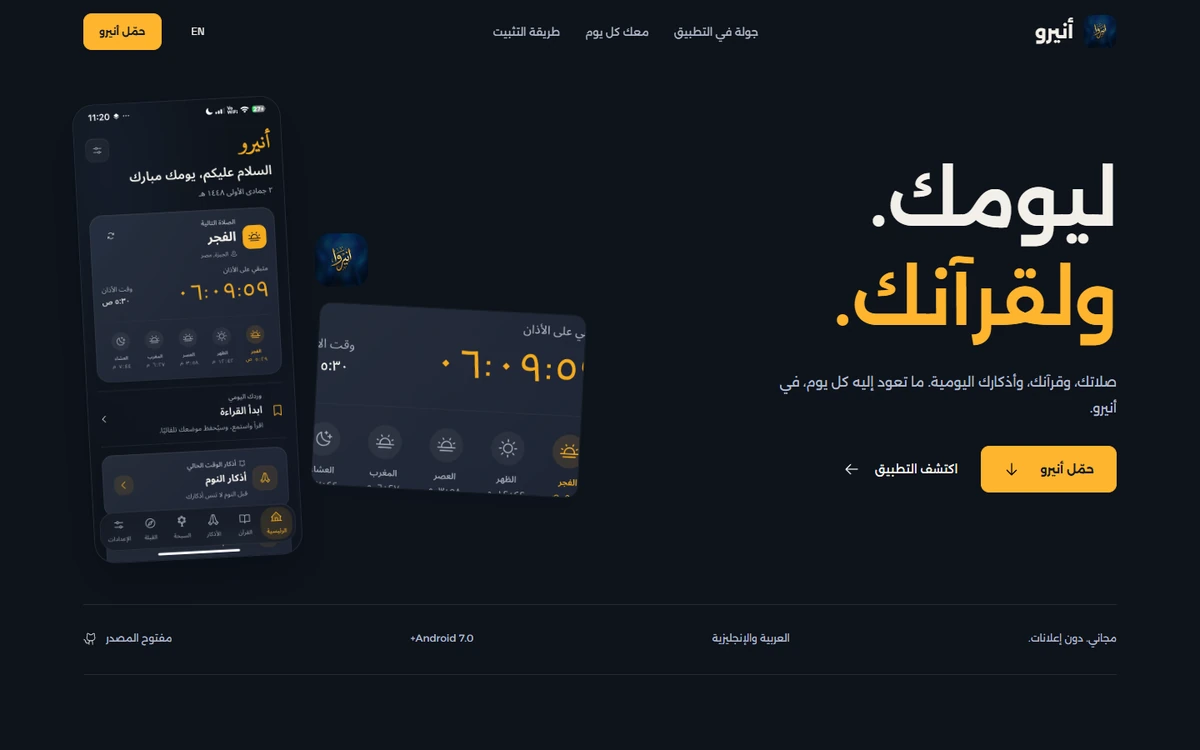
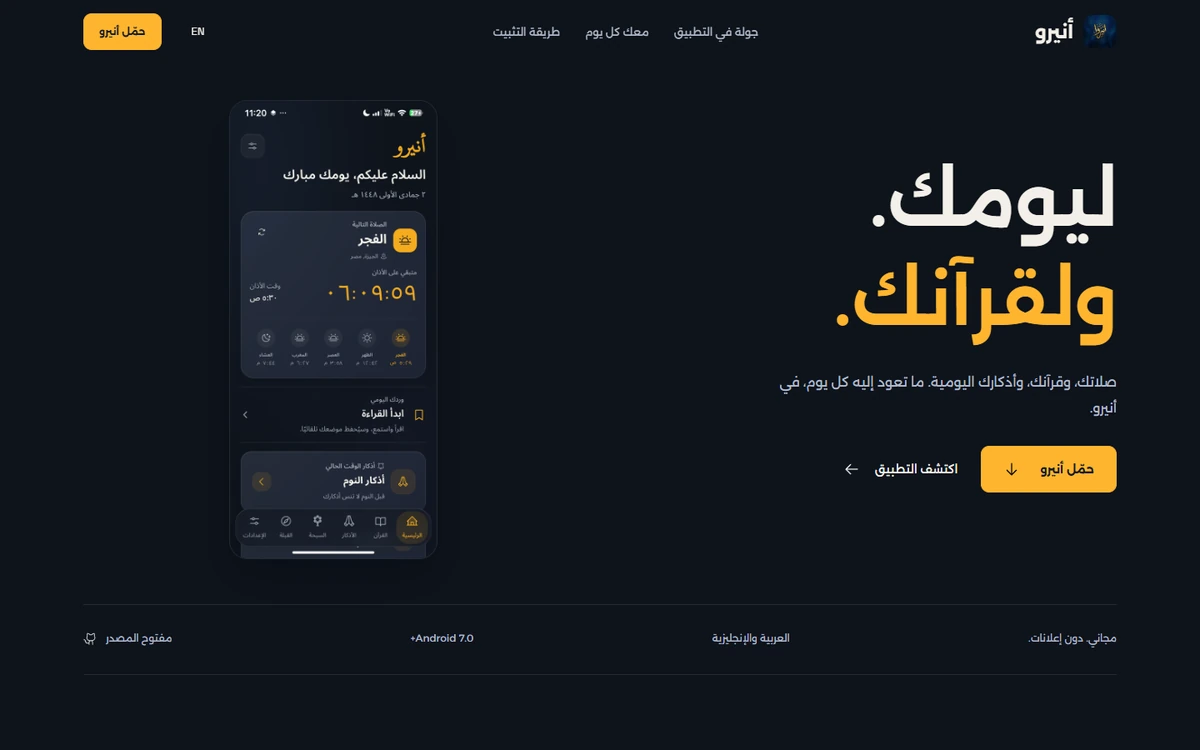
Replace broken detail crops with complete aligned app screenshots

Changed region(s): [[0.0617, 0.1227, 0.4933, 0.7667], [0.0617, 0.1533, 0.0925, 0.2147], [0.3083, 0.1227, 0.3392, 0.1533]]

diff --git a/styles.css b/styles.css
@@ -2,15 +2,40 @@
 @font-face{font-family:Space;src:url('/assets/fonts/space-grotesk.ttf') format('truetype');font-weight:300 700;font-display:swap}
 :root{color-scheme:dark;--canvas:#0e131b;--surface:#141c27;--ink:#f3f0e9;--muted:#b0bbcb;--amber:#ffb52e;--line:#ffffff1a;--max:1240px;--ease:cubic-bezier(.22,.8,.25,1)}
 *{box-sizing:border-box}html{scroll-behavior:smooth;scroll-padding-top:100px}body{margin:0;background:var(--canvas);color:var(--ink);font:400 16px/1.85 Alexandria,system-ui,sans-serif}html[lang=en] body{font-family:Space,system-ui,sans-serif}a{color:inherit;text-decoration:none}button{font:inherit;color:inherit;cursor:pointer}figure,p,h1,h2,h3{margin:0}img{display:block;max-width:100%;height:auto}a,button{-webkit-tap-highlight-color:transparent}a:focus-visible,button:focus-visible,summary:focus-visible,[tabindex]:focus-visible{outline:2px solid var(--amber);outline-offset:6px}::selection{background:var(--amber);color:var(--canvas)}.container{width:min(var(--max),calc(100% - 88px));margin-inline:auto}.accent{color:var(--amber)}.icon{width:22px;height:22px;flex-shrink:0;filter:brightness(0) invert(95%)}.skip-link{position:fixed;top:8px;inset-inline-start:12px;z-index:100;background:var(--amber);color:var(--canvas);padding:10px 20px;translate:0 -160%}.skip-link:focus{translate:none}.site-header{position:sticky;top:0;z-index:30;background:#0e131bed;backdrop-filter:blur(16px)}.nav-bar{height:76px;display:flex;justify-content:space-between;align-items:center;gap:36px}.brand{display:flex;gap:12px;align-items:center;font-size:23px;font-weight:650;white-space:nowrap}.brand img{width:40px;height:40px;border-radius:11px}.navigation{display:flex;gap:30px;color:var(--muted);font-size:13px;align-items:center}.navigation a{padding-block:13px;white-space:nowrap;transition:color .2s}.navigation a:hover{color:var(--ink)}.nav-actions{display:flex;gap:22px;align-items:center}.language-button{background:none;border:0;min-height:44px;min-width:44px;font-family:Space,Alexandria,sans-serif;font-size:13px}.button{display:inline-flex;align-items:center;justify-content:center;gap:24px;min-height:56px;padding:14px 26px;background:var(--amber);border:1px solid var(--amber);border-radius:10px;color:#121922;font-size:14px;font-weight:650;white-space:nowrap;transition:background .2s,translate .2s}.button .icon{filter:none;width:20px;height:20px}.button:hover{background:#ffc250;translate:0 -2px}.button:active{translate:0 1px}.button-small{font-size:12px;min-height:44px;padding:10px 18px}.menu-button{display:none;min-width:44px;min-height:44px;border:0;background:transparent}.mobile-nav{display:none}.link-arrow{display:inline-flex;gap:18px;align-items:center;font-size:14px;font-weight:450;min-height:44px}.link-arrow .icon{width:20px;transition:translate .2s}.link-arrow:hover .icon{translate:-4px 0}html[dir=ltr] .link-arrow .icon{rotate:180deg}html[dir=ltr] .link-arrow:hover .icon{translate:4px 0}
-.hero{display:grid;grid-template-columns:1fr 1.05fr;align-items:center;gap:70px;padding-block:44px 54px;min-height:648px}.hero-copy{padding-bottom:20px}.hero h1{font-size:clamp(60px,6.8vw,88px);font-weight:600;line-height:1.36;letter-spacing:-2.5px}.hero h1 span{display:block}html[lang=en] .hero h1{font-size:clamp(60px,6.5vw,84px);line-height:1.08;letter-spacing:-4px}.hero-copy>p{max-width:420px;color:var(--muted);font-size:16px;line-height:1.95;margin-top:24px}.hero-actions{display:flex;align-items:center;flex-wrap:wrap;gap:28px;margin-top:30px}.hero-product{display:grid;grid-template-columns:250px 1fr;gap:28px;align-items:center;direction:ltr;position:relative}.hero-screen{border-radius:25px;overflow:hidden;box-shadow:0 24px 50px #050c1573;border:1px solid #b4c4df22;rotate:-3deg}.hero-screen>img{width:250px;aspect-ratio:1080/2392;object-fit:contain}.hero-side{display:flex;flex-direction:column;align-items:start;gap:26px;min-width:0;padding-top:80px}.hero-mark{width:64px;height:64px;border-radius:18px}.hero-side>p{color:var(--muted);font-size:15px;line-height:1.7;text-align:start;max-width:170px;direction:rtl}html[lang=en] .hero-side>p{direction:ltr}.prayer-detail{width:100%;border-radius:15px;overflow:hidden;rotate:3deg;border:1px solid #ffffff0d;box-shadow:0 15px 30px #07101a50}.prayer-detail>img{width:100%;aspect-ratio:760/520;object-fit:contain}.hero-product .hero-screen{transition:rotate .7s var(--ease),translate .7s var(--ease)}@media(hover:hover){.hero-product:hover .hero-screen{rotate:-1deg;translate:0 -5px}}.essentials{display:flex;justify-content:space-between;gap:30px;align-items:center;padding-block:25px 28px;border-block:1px solid var(--line);color:var(--muted);font-size:12px}.essentials a{display:flex;gap:10px;align-items:center;min-height:30px}.essentials .icon{width:17px;height:17px;opacity:.8}
-.section{padding-block:100px;scroll-margin-top:76px}.section-heading{max-width:640px;margin-bottom:48px}.section-heading h2{font-size:clamp(34px,4.2vw,54px);font-weight:550;line-height:1.5;letter-spacing:-1.5px}.section-heading p{font-size:15px;line-height:1.9;color:var(--muted);margin-top:15px;max-width:580px}html[lang=en] .section-heading h2{line-height:1.12;letter-spacing:-2px}.quran-section{padding-bottom:78px}.gallery-controls{display:flex;justify-content:space-between;align-items:center;color:var(--muted);font-size:12px;margin-bottom:28px}.gallery-controls>div{display:flex;gap:8px}.gallery-arrow{display:grid;place-items:center;width:44px;height:44px;background:none;border:1px solid var(--line);border-radius:50%;transition:background .2s,opacity .2s}.gallery-arrow:hover:not(:disabled){background:#ffffff09}.gallery-arrow:disabled{opacity:.3;cursor:default}html[dir=ltr] .gallery-arrow .icon{rotate:180deg}.screen-gallery{display:flex;gap:30px;overflow-x:auto;overscroll-behavior-x:contain;scroll-snap-type:x mandatory;scrollbar-width:thin;scrollbar-color:#5c6876 transparent;padding:8px 0 26px}.gallery-item{flex:1 0 240px;min-width:0;scroll-snap-align:start}.gallery-item>img{width:100%;aspect-ratio:1080/2392;object-fit:contain;border-radius:22px;border:1px solid #b4c4df1b;box-shadow:0 18px 38px #07101a55}.gallery-item.listening{padding-top:58px}.gallery-item.reciters{padding-top:28px}.gallery-item figcaption{margin-top:25px;padding-inline:3px}.gallery-item h3{font-size:20px;line-height:1.5;font-weight:550}.gallery-item p{font-size:12px;color:var(--muted);margin-top:8px;line-height:1.85;max-width:250px}.gallery-note{margin-top:28px;color:#9daabc;font-size:12px}.daily-section{padding-top:62px}.daily-layout{display:grid;grid-template-columns:1.1fr 1fr;gap:66px}.azkar-feature{display:flex;flex-direction:column;background:var(--surface);border-radius:20px;min-height:640px;overflow:hidden}.azkar-copy{padding:38px 38px 20px;max-width:430px}.azkar-copy>.icon{width:25px;height:25px;opacity:.9}.azkar-copy h3{font-size:29px;font-weight:500;line-height:1.55;margin-top:23px;letter-spacing:-.5px}.azkar-copy p{font-size:14px;color:var(--muted);margin-top:15px;line-height:1.9}.azkar-feature figure{margin-top:10px;align-self:flex-end;width:270px;max-width:70%;height:360px;overflow:hidden;margin-inline-end:36px;border-radius:20px 20px 0 0;rotate:-3deg;transform-origin:bottom center;border:1px solid #ffffff1a;border-bottom:0}.azkar-feature figure img{width:100%;aspect-ratio:1080/2392;object-fit:contain}.daily-utilities{display:grid;grid-template-rows:1fr 1fr;gap:20px}.utility-feature{display:grid;grid-template-columns:1fr 190px;align-items:center;gap:22px;padding-block:22px;overflow:hidden}.utility-feature+.utility-feature{border-top:1px solid var(--line)}.utility-copy h3{font-size:25px;font-weight:500;line-height:1.5;margin-top:24px;letter-spacing:-.5px}.utility-copy p{font-size:14px;color:var(--muted);margin-top:15px;line-height:1.9;max-width:270px}.utility-copy>.icon{width:24px;height:24px;opacity:.9}.utility-image{width:190px;aspect-ratio:640/700;object-fit:contain;border-radius:14px}.qibla-feature .utility-image{rotate:2deg}
+.hero{display:grid;grid-template-columns:1fr 1.05fr;align-items:center;gap:70px;padding-block:44px 54px;min-height:648px}.hero-copy{padding-bottom:20px}.hero h1{font-size:clamp(60px,6.8vw,88px);font-weight:600;line-height:1.36;letter-spacing:-2.5px}.hero h1 span{display:block}html[lang=en] .hero h1{font-size:clamp(60px,6.5vw,84px);line-height:1.08;letter-spacing:-4px}.hero-copy>p{max-width:420px;color:var(--muted);font-size:16px;line-height:1.95;margin-top:24px}.hero-actions{display:flex;align-items:center;flex-wrap:wrap;gap:28px;margin-top:30px}.essentials{display:flex;justify-content:space-between;gap:30px;align-items:center;padding-block:25px 28px;border-block:1px solid var(--line);color:var(--muted);font-size:12px}.essentials a{display:flex;gap:10px;align-items:center;min-height:30px}.essentials .icon{width:17px;height:17px;opacity:.8}
+.section{padding-block:100px;scroll-margin-top:76px}.section-heading{max-width:640px;margin-bottom:48px}.section-heading h2{font-size:clamp(34px,4.2vw,54px);font-weight:550;line-height:1.5;letter-spacing:-1.5px}.section-heading p{font-size:15px;line-height:1.9;color:var(--muted);margin-top:15px;max-width:580px}html[lang=en] .section-heading h2{line-height:1.12;letter-spacing:-2px}.quran-section{padding-bottom:78px}.gallery-controls{display:flex;justify-content:space-between;align-items:center;color:var(--muted);font-size:12px;margin-bottom:28px}.gallery-controls>div{display:flex;gap:8px}.gallery-arrow{display:grid;place-items:center;width:44px;height:44px;background:none;border:1px solid var(--line);border-radius:50%;transition:background .2s,opacity .2s}.gallery-arrow:hover:not(:disabled){background:#ffffff09}.gallery-arrow:disabled{opacity:.3;cursor:default}html[dir=ltr] .gallery-arrow .icon{rotate:180deg}.screen-gallery{display:flex;gap:30px;overflow-x:auto;overscroll-behavior-x:contain;scroll-snap-type:x mandatory;scrollbar-width:thin;scrollbar-color:#5c6876 transparent;padding:8px 0 26px}.gallery-item{flex:1 0 240px;min-width:0;scroll-snap-align:start}.gallery-item>img{width:100%;aspect-ratio:1080/2392;object-fit:contain;border-radius:22px;border:1px solid #b4c4df1b;box-shadow:0 18px 38px #07101a55}.gallery-item.listening{padding-top:58px}.gallery-item.reciters{padding-top:28px}.gallery-item figcaption{margin-top:25px;padding-inline:3px}.gallery-item h3{font-size:20px;line-height:1.5;font-weight:550}.gallery-item p{font-size:12px;color:var(--muted);margin-top:8px;line-height:1.85;max-width:250px}.gallery-note{margin-top:28px;color:#9daabc;font-size:12px}.daily-section{padding-top:62px}
 .install-section{background:var(--surface);margin-top:24px;padding-block:72px 58px}.download-layout{display:grid;grid-template-columns:1.2fr .8fr;gap:90px;align-items:center}.download-layout h2{font-size:clamp(36px,4.6vw,58px);font-weight:550;line-height:1.5;letter-spacing:-1.5px;max-width:580px}.download-layout>div>p{color:var(--muted);font-size:15px;line-height:1.85;margin-top:20px;max-width:440px}html[lang=en] .download-layout h2{line-height:1.15;letter-spacing:-2px}.download-actions{max-width:330px;width:100%;justify-self:end}.download-mark{width:58px;height:58px;border-radius:15px;margin-bottom:22px}.release-meta{display:flex;align-items:center;gap:24px;font:14px Space,system-ui,sans-serif;color:var(--muted);margin-bottom:20px}.release-meta [data-version]{color:var(--ink)}.download-actions .button{width:100%;justify-content:space-between}.download-actions #release-status{font-size:12px;color:var(--muted);line-height:1.85;min-height:24px;margin-top:14px}.install-steps{list-style:none;padding:0;margin:60px 0 0;display:grid;grid-template-columns:repeat(3,1fr);gap:48px;border-top:1px solid #ffffff20;padding-top:38px}.install-steps li{max-width:340px}.install-steps .icon{width:23px;height:23px;opacity:.85}.install-steps h3{font-size:19px;font-weight:500;margin-top:19px;line-height:1.55}.install-steps p{font-size:13px;color:var(--muted);line-height:1.95;margin-top:11px}.install-help{display:grid;grid-template-columns:1fr 1fr auto;gap:34px;align-items:start;margin-top:48px;font-size:13px}.install-help details{border-top:1px solid var(--line);padding-top:20px}.install-help summary{cursor:pointer;font-weight:500;min-height:44px}.install-help details p{color:var(--muted);font-size:12px;line-height:1.95;margin-top:10px}.text-link{color:var(--amber);font-size:13px;min-height:44px;display:inline-flex;align-items:center;border-bottom:1px solid #ffb52e55}.support{display:grid;grid-template-columns:1fr .6fr;gap:60px;align-items:center;padding-block:100px 90px}.support h2{font-size:clamp(32px,3.3vw,42px);line-height:1.5;max-width:570px;font-weight:500;letter-spacing:-1px}.support p{font-size:14px;line-height:1.9;color:var(--muted);max-width:490px;margin-top:18px}.support .link-arrow{color:var(--amber);margin-top:24px}.support-mark{width:140px;height:140px;border-radius:36px;justify-self:center;rotate:5deg}.site-footer{padding-bottom:30px}.footer-wordmark{font-size:clamp(70px,12vw,144px);line-height:1.4;font-weight:550;letter-spacing:-4px;color:#f3f0e9}.footer-row{border-top:1px solid var(--line);padding-top:26px;display:flex;align-items:center;justify-content:space-between;gap:26px;color:var(--muted);font-size:12px}.footer-links{display:flex;gap:26px;flex-wrap:wrap}.footer-links a{min-height:44px;display:inline-flex;align-items:center}.footer-links a:hover{color:var(--ink)}
-.policy{max-width:800px;padding-block:70px}.policy h1{font-size:38px;margin-bottom:18px}.policy h2{font-size:21px;font-weight:550;margin-top:36px}.policy p{color:var(--muted);line-height:1.95;margin-top:14px}.policy a{color:var(--amber)}.policy section{border-top:1px solid var(--line);padding-top:42px;margin-top:50px}.policy section h1{font-family:Space,system-ui,sans-serif}.policy section p{font-family:Space,system-ui,sans-serif}.reveal{opacity:1}.motion-ready .reveal{opacity:0;transform:translateY(24px);transition:opacity .65s var(--ease),transform .65s var(--ease)}.motion-ready .reveal.is-visible{opacity:1;transform:none}.motion-ready .hero-copy{animation:hero-copy .65s var(--ease) both}.motion-ready .hero-product{animation:hero-product .85s .08s var(--ease) both}@keyframes hero-copy{from{opacity:0;transform:translateY(20px)}to{opacity:1;transform:none}}@keyframes hero-product{from{opacity:0;transform:translateY(32px) rotate(1deg)}to{opacity:1;transform:none}}[hidden]{display:none!important}
-@media(min-width:768px) and (max-height:780px){.hero{min-height:564px;padding-block:25px 40px}.hero-product{grid-template-columns:218px 1fr}.hero-screen>img{width:218px}.hero h1{font-size:70px}html[lang=en] .hero h1{font-size:65px}.hero-side{padding-top:60px;gap:20px}}
-@media(max-width:1150px){.hero{gap:38px;grid-template-columns:1fr 1fr}.hero h1{font-size:68px}html[lang=en] .hero h1{font-size:66px}.hero-product{grid-template-columns:222px 1fr;gap:23px}.hero-screen>img{width:222px}.hero-side{gap:20px}.hero-copy>p{font-size:15px}.daily-layout{gap:40px}.utility-feature{grid-template-columns:1fr 150px;gap:18px}.utility-image{width:150px}.utility-copy h3{font-size:23px}.gallery-item{flex-basis:230px}.install-help{grid-template-columns:1fr 1fr}.install-help>.text-link{justify-self:start}}
-@media(max-width:950px){.container{width:calc(100% - 48px)}.nav-bar{gap:20px}.navigation{gap:18px;font-size:12px}.nav-actions{gap:12px}.hero{gap:28px;min-height:570px}.hero h1{font-size:61px}html[lang=en] .hero h1{font-size:55px}.hero-product{grid-template-columns:190px 1fr;gap:20px}.hero-screen>img{width:190px}.hero-side{padding-top:55px}.hero-mark{width:48px;height:48px;border-radius:13px}.hero-side>p{font-size:12px}.hero-actions{gap:18px}.button{font-size:13px;padding-inline:20px}.link-arrow{font-size:12px;gap:12px}.section{padding-block:80px}.daily-layout{grid-template-columns:1fr;gap:34px}.azkar-feature{display:grid;grid-template-columns:1.1fr .9fr;min-height:420px}.azkar-copy{padding:38px 32px}.azkar-copy h3{font-size:30px}.azkar-feature figure{width:235px;max-width:none;height:390px;align-self:end;margin-inline-end:26px;translate:0 20px}.daily-utilities{grid-template-columns:1fr 1fr;grid-template-rows:auto;gap:36px}.utility-feature{grid-template-columns:1fr 135px;gap:16px;padding-block:20px}.utility-feature+.utility-feature{border-top:0}.utility-image{position:static;width:135px;opacity:1}.utility-copy p{font-size:13px;max-width:205px}.download-layout{gap:42px}.install-steps{gap:30px}.support{padding-block:80px}}
-@media(max-width:767px){.container{width:calc(100% - 40px)}.nav-bar{height:68px;gap:12px}.brand{font-size:20px;gap:10px}.brand img{width:35px;height:35px;border-radius:10px}.navigation{display:none}.nav-actions .button{display:none}.nav-actions{gap:8px}.menu-button{display:grid;place-items:center}.mobile-nav.is-open{display:grid;gap:0;padding:8px 20px 20px;border-bottom:1px solid var(--line)}.mobile-nav a{padding:10px 4px;min-height:44px;font-size:14px}.hero{display:block;min-height:0;padding-block:34px 28px}.hero-copy{padding:0;max-width:470px}.hero h1{font-size:56px;line-height:1.32;letter-spacing:-1.5px}html[lang=en] .hero h1{font-size:58px;line-height:1.06;letter-spacing:-3px}.hero-copy>p{font-size:14px;max-width:330px;line-height:1.9;margin-top:18px}.hero-actions{margin-top:22px;gap:26px}.hero-actions .button{min-height:50px;font-size:13px;padding:12px 20px;gap:20px}.hero-actions .link-arrow{font-size:12px;gap:12px}.hero-product{max-width:460px;margin:34px auto 0;grid-template-columns:196px 1fr;gap:24px}.hero-screen>img{width:196px}.hero-side{padding-top:70px;gap:20px}.hero-mark{width:51px;height:51px;border-radius:14px}.hero-side>p{font-size:12px;max-width:140px}.prayer-detail{rotate:2deg;border-radius:12px}.essentials{flex-wrap:wrap;justify-content:space-between;gap:10px 18px;padding-block:18px;font-size:11px}.essentials>*{width:calc(50% - 18px);min-height:26px}.essentials a{min-height:26px}.section{padding-block:62px}.section-heading{margin-bottom:30px}.section-heading h2{font-size:34px;line-height:1.5;letter-spacing:-.7px}html[lang=en] .section-heading h2{font-size:36px;line-height:1.15;letter-spacing:-1.2px}.section-heading p{font-size:14px;line-height:1.9;max-width:380px;margin-top:12px}.quran-section{padding-bottom:44px}.gallery-controls{margin-bottom:17px;font-size:11px}.screen-gallery{gap:24px;padding:8px 0 20px}.gallery-item{flex:0 0 232px}.gallery-item>img{border-radius:20px}.gallery-item.listening{padding-top:35px}.gallery-item.reciters{padding-top:22px}.gallery-item figcaption{margin-top:20px}.gallery-item h3{font-size:19px}.gallery-item p{font-size:12px}.gallery-note{font-size:11px;line-height:1.85;margin-top:19px;max-width:290px}.daily-layout{grid-template-columns:1fr;gap:25px}.azkar-feature{min-height:0;display:grid;grid-template-columns:1fr 42%;gap:8px;min-height:400px}.azkar-copy{padding:29px 26px;z-index:1}.azkar-copy h3{font-size:24px;line-height:1.6;margin-top:19px}.azkar-copy p{font-size:12px;line-height:1.9}.azkar-feature figure{width:100%;max-width:none;align-self:end;height:340px;margin:0;margin-inline-end:14px;translate:-10px 20px;rotate:-4deg}.daily-utilities{grid-template-columns:1fr;grid-template-rows:auto;gap:12px}.utility-feature{grid-template-columns:1fr 142px;gap:18px;padding-block:26px}.utility-copy{max-width:none}.utility-copy h3{font-size:23px;margin-top:20px}.utility-copy p{max-width:240px;font-size:13px}.utility-image{position:static;opacity:1;width:142px;translate:none}.download-layout{grid-template-columns:1fr;gap:34px}.download-layout h2{font-size:38px;line-height:1.5;max-width:350px;letter-spacing:-1px}html[lang=en] .download-layout h2{font-size:40px;line-height:1.17}.download-layout>div>p{font-size:14px;line-height:1.9;margin-top:14px}.download-actions{justify-self:start;max-width:100%}.download-mark{display:none}.release-meta{margin-bottom:16px;font-size:13px}.download-actions .button{min-height:56px;font-size:14px}.download-actions #release-status{font-size:11px}.install-section{padding-block:53px 43px;margin-top:0}.install-steps{grid-template-columns:1fr;margin-top:36px;padding-top:30px;gap:30px}.install-steps li{display:grid;grid-template-columns:24px 1fr;column-gap:17px;max-width:none}.install-steps .icon{grid-row:1/3;margin-top:5px;width:22px;height:22px}.install-steps h3{margin:0;font-size:17px}.install-steps p{grid-column:2;margin-top:8px;font-size:12px;line-height:1.95}.install-help{grid-template-columns:1fr;gap:20px;margin-top:36px}.install-help summary{font-size:13px;min-height:30px}.install-help>.text-link{min-height:44px}.support{padding-block:64px 55px;grid-template-columns:1fr 82px;gap:25px;align-items:start}.support h2{font-size:29px;line-height:1.55;letter-spacing:-.5px}.support p{font-size:13px;line-height:1.9}.support-mark{width:75px;height:75px;border-radius:20px;margin-top:7px}.support .link-arrow{font-size:13px;margin-top:20px}.footer-wordmark{font-size:86px;letter-spacing:-2px}.footer-row{align-items:start;flex-direction:column;gap:16px;padding-top:20px;font-size:11px}.footer-links{gap:20px}.footer-links a{min-height:28px}.policy{padding-block:40px}.policy h1{font-size:30px}.policy h2{font-size:20px}.policy p{font-size:14px}.policy .nav-bar{width:100%}}
-@media(max-width:359px){.container{width:calc(100% - 32px)}.hero h1{font-size:49px}html[lang=en] .hero h1{font-size:53px}.hero-actions{gap:18px}.hero-actions .button{font-size:12px;padding-inline:16px}.hero-product{grid-template-columns:172px 1fr;gap:18px}.hero-screen>img{width:172px}.hero-side{gap:16px;padding-top:62px}.hero-mark{width:45px;height:45px}.hero-side>p{font-size:11px}.gallery-item{flex-basis:220px}.azkar-copy{padding:24px 20px}.azkar-copy h3{font-size:22px}.azkar-feature{min-height:380px}.utility-feature{grid-template-columns:1fr 114px;gap:16px}.utility-image{width:114px}.support{grid-template-columns:1fr 64px;gap:20px}.support-mark{width:62px;height:62px;border-radius:16px}.support h2{font-size:26px}}
-@media(prefers-reduced-motion:reduce){html{scroll-behavior:auto}*,*:before,*:after{animation:none!important;transition:none!important}.motion-ready .reveal{opacity:1;transform:none}.hero-product:hover .hero-screen{rotate:-3deg;translate:none}}
+.policy{max-width:800px;padding-block:70px}.policy h1{font-size:38px;margin-bottom:18px}.policy h2{font-size:21px;font-weight:550;margin-top:36px}.policy p{color:var(--muted);line-height:1.95;margin-top:14px}.policy a{color:var(--amber)}.policy section{border-top:1px solid var(--line);padding-top:42px;margin-top:50px}.policy section h1{font-family:Space,system-ui,sans-serif}.policy section p{font-family:Space,system-ui,sans-serif}.reveal{opacity:1}.motion-ready .reveal{opacity:0;transform:translateY(24px);transition:opacity .65s var(--ease),transform .65s var(--ease)}.motion-ready .reveal.is-visible{opacity:1;transform:none}.motion-ready .hero-copy{animation:hero-copy .65s var(--ease) both}@keyframes hero-copy{from{opacity:0;transform:translateY(20px)}to{opacity:1;transform:none}}@keyframes hero-product{from{opacity:0;transform:translateY(32px) rotate(1deg)}to{opacity:1;transform:none}}[hidden]{display:none!important}
+@media(min-width:768px) and (max-height:780px){.hero{min-height:564px;padding-block:25px 40px}.hero h1{font-size:70px}html[lang=en] .hero h1{font-size:65px}}
+@media(max-width:1150px){.hero{gap:38px;grid-template-columns:1fr 1fr}.hero h1{font-size:68px}html[lang=en] .hero h1{font-size:66px}.hero-copy>p{font-size:15px}.gallery-item{flex-basis:230px}.install-help{grid-template-columns:1fr 1fr}.install-help>.text-link{justify-self:start}}
+@media(max-width:950px){.container{width:calc(100% - 48px)}.nav-bar{gap:20px}.navigation{gap:18px;font-size:12px}.nav-actions{gap:12px}.hero{gap:28px;min-height:570px}.hero h1{font-size:61px}html[lang=en] .hero h1{font-size:55px}.hero-actions{gap:18px}.button{font-size:13px;padding-inline:20px}.link-arrow{font-size:12px;gap:12px}.section{padding-block:80px}.download-layout{gap:42px}.install-steps{gap:30px}.support{padding-block:80px}}
+@media(max-width:767px){.container{width:calc(100% - 40px)}.nav-bar{height:68px;gap:12px}.brand{font-size:20px;gap:10px}.brand img{width:35px;height:35px;border-radius:10px}.navigation{display:none}.nav-actions .button{display:none}.nav-actions{gap:8px}.menu-button{display:grid;place-items:center}.mobile-nav.is-open{display:grid;gap:0;padding:8px 20px 20px;border-bottom:1px solid var(--line)}.mobile-nav a{padding:10px 4px;min-height:44px;font-size:14px}.hero{display:block;min-height:0;padding-block:34px 28px}.hero-copy{padding:0;max-width:470px}.hero h1{font-size:56px;line-height:1.32;letter-spacing:-1.5px}html[lang=en] .hero h1{font-size:58px;line-height:1.06;letter-spacing:-3px}.hero-copy>p{font-size:14px;max-width:330px;line-height:1.9;margin-top:18px}.hero-actions{margin-top:22px;gap:26px}.hero-actions .button{min-height:50px;font-size:13px;padding:12px 20px;gap:20px}.hero-actions .link-arrow{font-size:12px;gap:12px}.essentials{flex-wrap:wrap;justify-content:space-between;gap:10px 18px;padding-block:18px;font-size:11px}.essentials>*{width:calc(50% - 18px);min-height:26px}.essentials a{min-height:26px}.section{padding-block:62px}.section-heading{margin-bottom:30px}.section-heading h2{font-size:34px;line-height:1.5;letter-spacing:-.7px}html[lang=en] .section-heading h2{font-size:36px;line-height:1.15;letter-spacing:-1.2px}.section-heading p{font-size:14px;line-height:1.9;max-width:380px;margin-top:12px}.quran-section{padding-bottom:44px}.gallery-controls{margin-bottom:17px;font-size:11px}.screen-gallery{gap:24px;padding:8px 0 20px}.gallery-item{flex:0 0 232px}.gallery-item>img{border-radius:20px}.gallery-item.listening{padding-top:35px}.gallery-item.reciters{padding-top:22px}.gallery-item figcaption{margin-top:20px}.gallery-item h3{font-size:19px}.gallery-item p{font-size:12px}.gallery-note{font-size:11px;line-height:1.85;margin-top:19px;max-width:290px}.download-layout{grid-template-columns:1fr;gap:34px}.download-layout h2{font-size:38px;line-height:1.5;max-width:350px;letter-spacing:-1px}html[lang=en] .download-layout h2{font-size:40px;line-height:1.17}.download-layout>div>p{font-size:14px;line-height:1.9;margin-top:14px}.download-actions{justify-self:start;max-width:100%}.download-mark{display:none}.release-meta{margin-bottom:16px;font-size:13px}.download-actions .button{min-height:56px;font-size:14px}.download-actions #release-status{font-size:11px}.install-section{padding-block:53px 43px;margin-top:0}.install-steps{grid-template-columns:1fr;margin-top:36px;padding-top:30px;gap:30px}.install-steps li{display:grid;grid-template-columns:24px 1fr;column-gap:17px;max-width:none}.install-steps .icon{grid-row:1/3;margin-top:5px;width:22px;height:22px}.install-steps h3{margin:0;font-size:17px}.install-steps p{grid-column:2;margin-top:8px;font-size:12px;line-height:1.95}.install-help{grid-template-columns:1fr;gap:20px;margin-top:36px}.install-help summary{font-size:13px;min-height:30px}.install-help>.text-link{min-height:44px}.support{padding-block:64px 55px;grid-template-columns:1fr 82px;gap:25px;align-items:start}.support h2{font-size:29px;line-height:1.55;letter-spacing:-.5px}.support p{font-size:13px;line-height:1.9}.support-mark{width:75px;height:75px;border-radius:20px;margin-top:7px}.support .link-arrow{font-size:13px;margin-top:20px}.footer-wordmark{font-size:86px;letter-spacing:-2px}.footer-row{align-items:start;flex-direction:column;gap:16px;padding-top:20px;font-size:11px}.footer-links{gap:20px}.footer-links a{min-height:28px}.policy{padding-block:40px}.policy h1{font-size:30px}.policy h2{font-size:20px}.policy p{font-size:14px}.policy .nav-bar{width:100%}}
+@media(max-width:359px){.container{width:calc(100% - 32px)}.hero h1{font-size:49px}html[lang=en] .hero h1{font-size:53px}.hero-actions{gap:18px}.hero-actions .button{font-size:12px;padding-inline:16px}.gallery-item{flex-basis:220px}.support{grid-template-columns:1fr 64px;gap:20px}.support-mark{width:62px;height:62px;border-radius:16px}.support h2{font-size:26px}}
+@media(prefers-reduced-motion:reduce){html{scroll-behavior:auto}*,*:before,*:after{animation:none!important;transition:none!important}.motion-ready .reveal{opacity:1;transform:none}}
 @media(prefers-reduced-transparency:reduce){.site-header{background:var(--canvas);backdrop-filter:none}}
 @supports not (backdrop-filter:blur(1px)){.site-header{background:var(--canvas)}}
+
+/* Product screens are complete and upright. No screenshot container crops text. */
+.hero-product{display:flex;align-items:center;justify-content:center;min-width:0}
+.hero-screen{width:250px;max-width:100%;margin:0;border:1px solid #b4c4df22;border-radius:22px;background:var(--canvas);box-shadow:0 24px 50px #050c1573}
+.hero-screen>img{width:100%;height:auto;aspect-ratio:1080/2392;object-fit:contain;border-radius:21px}
+.daily-layout{display:grid;grid-template-columns:1.05fr 1fr;gap:64px;align-items:stretch}
+.azkar-feature{background:var(--surface);border-radius:20px;display:flex;flex-direction:column;align-items:stretch;min-width:0}
+.azkar-copy{padding:32px 34px 0}
+.azkar-copy>.icon,.utility-copy>.icon{width:24px;height:24px;opacity:.9}
+.azkar-copy h3{font-size:28px;font-weight:500;line-height:1.6;margin-top:20px;letter-spacing:-.5px;max-width:370px}
+.azkar-copy p{font-size:14px;color:var(--muted);line-height:1.9;margin-top:13px;max-width:370px}
+.azkar-feature figure{width:210px;max-width:calc(100% - 48px);margin:28px auto 32px;flex-shrink:0}
+.azkar-feature figure>img{display:block;width:100%;height:auto;aspect-ratio:1080/2392;object-fit:contain;border:1px solid #b4c4df22;border-radius:18px}
+.daily-utilities{display:grid;grid-template-rows:1fr 1fr;gap:24px;min-width:0}
+.utility-feature{display:grid;grid-template-columns:minmax(0,1fr) 150px;align-items:center;gap:28px;padding-block:8px;min-width:0}
+.utility-feature+.utility-feature{border-top:1px solid var(--line);padding-top:24px}
+.utility-copy{min-width:0}
+.utility-copy h3{font-size:25px;font-weight:500;line-height:1.5;margin-top:20px;letter-spacing:-.5px}
+.utility-copy p{font-size:14px;color:var(--muted);line-height:1.9;margin-top:13px;max-width:270px}
+.utility-image{display:block;width:150px;max-width:100%;height:auto;aspect-ratio:1080/2392;object-fit:contain;border:1px solid #b4c4df22;border-radius:16px}
+@media(min-width:768px) and (max-height:780px){.hero-screen{width:218px}}
+@media(max-width:1150px){.daily-layout{gap:38px}.utility-feature{grid-template-columns:minmax(0,1fr) 130px;gap:22px}.utility-image{width:130px}.utility-copy h3{font-size:23px}.hero-screen{width:222px}}
+@media(max-width:950px){.hero-screen{width:190px}.daily-layout{grid-template-columns:1fr;gap:36px}.azkar-feature{display:grid;grid-template-columns:minmax(0,1fr) 220px;gap:30px;align-items:center;padding:28px 32px}.azkar-copy{padding:0}.azkar-feature figure{width:190px;max-width:100%;margin:0;justify-self:center}.daily-utilities{grid-template-columns:1fr 1fr;grid-template-rows:auto;gap:36px}.utility-feature{display:flex;flex-direction:column-reverse;align-items:flex-start;gap:24px;padding:0}.utility-feature+.utility-feature{border-top:0;padding-top:0}.utility-image{width:150px;align-self:center}.utility-copy p{max-width:300px}}
+@media(max-width:767px){.hero-product{margin:30px auto 0}.hero-screen{width:196px}.daily-layout{gap:28px}.azkar-feature{display:flex;flex-direction:column;gap:0;padding:0}.azkar-copy{width:100%;padding:28px 28px 0}.azkar-copy h3{font-size:25px;max-width:350px}.azkar-copy p{font-size:13px;max-width:350px}.azkar-feature figure{width:205px;max-width:calc(100% - 48px);margin:25px auto 28px}.daily-utilities{grid-template-columns:1fr;grid-template-rows:auto;gap:28px}.utility-feature{display:grid;grid-template-columns:minmax(0,1fr) 140px;align-items:center;gap:22px;padding-block:8px}.utility-feature+.utility-feature{border-top:1px solid var(--line);padding-top:28px}.utility-copy h3{font-size:23px}.utility-copy p{font-size:13px}.utility-image{width:140px;align-self:center}}
+@media(max-width:359px){.hero-screen{width:172px}.azkar-copy{padding:24px 22px 0}.azkar-copy h3{font-size:23px}.azkar-feature figure{width:190px}.utility-feature{grid-template-columns:minmax(0,1fr) 120px;gap:18px}.utility-image{width:120px}.utility-copy h3{font-size:21px}.utility-copy p{font-size:12px}}

diff --git a/index.html b/index.html
@@ -14,7 +14,7 @@
 <main id="main">
 <section id="top" class="hero container" aria-labelledby="hero-title">
   <div class="hero-copy"><h1 id="hero-title"><span data-en="Your day.">ليومك.</span><span class="accent" data-en="Your Quran.">ولقرآنك.</span></h1><p data-en="Prayer times, Quran, and daily remembrance. Everything you return to, in Aniro.">صلاتك، وقرآنك، وأذكارك اليومية. ما تعود إليه كل يوم، في أنيرو.</p><div class="hero-actions"><a class="button" href="https://github.com/its3li/Aniro/releases/latest" data-download><span data-en="Download Aniro">حمّل أنيرو</span><img class="icon" src="/assets/icons/arrow-down.svg" alt=""></a><a class="link-arrow" href="#showcase"><span data-en="Explore the app">اكتشف التطبيق</span><img class="icon" src="/assets/icons/arrow-left.svg" alt=""></a></div></div>
-  <div class="hero-product"><figure class="hero-screen"><img src="/assets/screens/home.webp" srcset="/assets/screens/home.webp 540w, /assets/screens/home-large.webp 810w" sizes="(max-width:767px) 196px, 250px" width="540" height="1196" alt="أنيرو: الصفحة الرئيسية ومواقيت الصلاة" data-en-alt="Aniro Home and prayer times" fetchpriority="high"></figure><div class="hero-side"><img src="/assets/logo.png" width="74" height="74" alt="" class="hero-mark"><figure class="prayer-detail"><img src="/assets/screens/prayer-detail.webp" width="760" height="520" alt="تفاصيل مواقيت الصلاة من شاشة أنيرو" data-en-alt="Prayer times detail from the real Aniro screen" fetchpriority="low"></figure></div></div>
+  <div class="hero-product"><figure class="hero-screen"><img src="/assets/screens/home.webp" srcset="/assets/screens/home.webp 540w, /assets/screens/home-large.webp 810w" sizes="(max-width:767px) 196px, 250px" width="540" height="1196" alt="أنيرو: الصفحة الرئيسية ومواقيت الصلاة" data-en-alt="Aniro Home and prayer times" fetchpriority="high"></figure></div>
 </section>
 <div class="essentials container"><p data-en="Free. Without ads.">مجاني. دون إعلانات.</p><p data-en="Arabic and English">العربية والإنجليزية</p><p>Android 7.0+</p><a href="https://github.com/its3li/Aniro" target="_blank" rel="noopener noreferrer"><span data-en="Built in the open">مفتوح المصدر</span><img class="icon" src="/assets/icons/github-logo.svg" alt=""></a></div>
 <section id="showcase" class="section quran-section" aria-labelledby="showcase-title"><div class="container">
@@ -32,7 +32,7 @@
   <div class="section-heading reveal"><h2 id="daily-title" data-en="For the rest of your day.">ومعك، بقية يومك.</h2><p data-en="Your Azkar, Tasbeeh, and Qibla. Simple tools to return to, morning to evening.">أذكارك، وسبحتك، واتجاه قبلتك. من أول اليوم، إلى هدوء المساء.</p></div>
   <div class="daily-layout">
     <article class="azkar-feature reveal"><div class="azkar-copy"><img class="icon" src="/assets/icons/sun.svg" alt=""><h3 data-en="Begin and end with remembrance.">ابدأ يومك بذكر. واختمه بذكر.</h3><p data-en="Morning and evening Azkar, with progress that stays saved for your day.">أذكار الصباح والمساء، مع متابعة التكرارات وحفظ تقدّمك لليوم.</p></div><figure><img src="/assets/screens/azkar-reading-large.webp" width="810" height="1794" loading="lazy" alt="قراءة الأذكار مع عدّاد التكرار" data-en-alt="Azkar reading with repetition counter"></figure></article>
-    <div class="daily-utilities"><article class="utility-feature reveal"><div class="utility-copy"><img class="icon" src="/assets/icons/clock.svg" alt=""><h3 data-en="A moment for Tasbeeh.">لحظة، وتسبيحة.</h3><p data-en="Your count, a tap away. Keep your Tasbeeh with you.">عدّاد واضح، بضغطة واحدة. سبحتك معك أينما كنت.</p></div><img class="utility-image" src="/assets/screens/tasbeeh-detail.webp" width="640" height="700" loading="lazy" alt="تفاصيل عدّاد السبحة الحقيقي" data-en-alt="Detail of Aniro’s real Tasbeeh counter"></article><article class="utility-feature qibla-feature reveal"><div class="utility-copy"><img class="icon" src="/assets/icons/compass.svg" alt=""><h3 data-en="Know your direction.">اعرف وجهتك.</h3><p data-en="Find your Qibla using your phone’s sensors, with calibration guidance.">اتجاه القبلة بمستشعرات هاتفك، وإرشادات المعايرة عند الحاجة.</p></div><img class="utility-image" src="/assets/screens/qibla-detail.webp" width="640" height="700" loading="lazy" alt="تفاصيل بوصلة القبلة الحقيقية" data-en-alt="Detail of Aniro’s real Qibla compass"></article></div>
+    <div class="daily-utilities"><article class="utility-feature reveal"><div class="utility-copy"><img class="icon" src="/assets/icons/clock.svg" alt=""><h3 data-en="A moment for Tasbeeh.">لحظة، وتسبيحة.</h3><p data-en="Your count, a tap away. Keep your Tasbeeh with you.">عدّاد واضح، بضغطة واحدة. سبحتك معك أينما كنت.</p></div><img class="utility-image" src="/assets/screens/tasbeeh.webp" width="540" height="1196" loading="lazy" alt="شاشة السبحة كاملة في أنيرو" data-en-alt="Complete Aniro Tasbeeh screen"></article><article class="utility-feature qibla-feature reveal"><div class="utility-copy"><img class="icon" src="/assets/icons/compass.svg" alt=""><h3 data-en="Know your direction.">اعرف وجهتك.</h3><p data-en="Find your Qibla using your phone’s sensors, with calibration guidance.">اتجاه القبلة بمستشعرات هاتفك، وإرشادات المعايرة عند الحاجة.</p></div><img class="utility-image" src="/assets/screens/qibla.webp" width="540" height="1196" loading="lazy" alt="شاشة القبلة كاملة في أنيرو" data-en-alt="Complete Aniro Qibla screen"></article></div>
   </div>
 </section>
 <section id="install" class="section install-section" aria-labelledby="install-title"><div class="container">

diff --git a/DESIGN.md b/DESIGN.md
@@ -20,8 +20,8 @@ The rejected site repeated a contained phone next to a feature list, hid
 important screens behind tabs, and used a large box and a decorative circle
 around the capture. Other sections repeated similar card-like groupings.
 
-The new hero pairs deliberate two-line typography with the Home capture and
-an exact detail crop. The Quran section is a gallery of four actual screens
+The hero pairs deliberate two-line typography with the complete Home capture.
+The Quran section is a gallery of four actual screens
 with captions outside the images; there are no tabs or giant background box.
 The daily section has one Azkar composition and two quieter utility views.
 The download section uses a broad layout, plain installation instructions,
@@ -42,9 +42,10 @@ testimonial, invented metric, decoration numbering, or video.
 
 ## Screens and motion
 
-Complete screen captures retain the 1080 × 2392 source aspect ratio. The
-prayer, Tasbeeh, and Qibla details are exact pixel crops documented in
-assets/screens/DETAIL-SOURCES.json. None of the UI content is reconstructed.
+Complete screen captures retain the 1080 × 2392 source aspect ratio. Home,
+Azkar, Tasbeeh, and Qibla are upright and fully contained. The detached
+detail crops and fixed-height Azkar clipping have been removed. None of
+the UI content is reconstructed.
 The user's real-asset requirement takes precedence over generating images.
 
 The gallery supports native horizontal scrolling, arrow controls, and Home,
@@ -62,6 +63,8 @@ and keeps all content visible. Transparency has a solid-fill fallback.
 - Headlines and copy fit; desktop hero CTA visible within the first viewport.
 - No rejected feature tabs, screenshot background box, videos, or media loads.
 - Four Quran screenshots, exact screenshot ratios, no broken local images.
+- Full Home/Azkar/Tasbeeh/Qibla screens: no clipping or copy overlap across
+  every tested viewport; no screenshot rotation or detached detail crops.
 - Download feed validates official GitHub APK URLs and has a working fallback.
 - Language switch persists; mobile menu and gallery are keyboard accessible.
 - Source filenames and every README image reference verified.

diff --git a/README.md b/README.md
@@ -25,8 +25,9 @@ older screenshots from the previous interface.
 | <img src="./assets/screens/quran-reciters.webp" width="180" alt="Real reciter selection"> | <img src="./assets/screens/azkar-reading.webp" width="180" alt="Azkar reading and repetitions"> | <img src="./assets/screens/tasbeeh.webp" width="180" alt="Aniro Tasbeeh"> | <img src="./assets/screens/qibla.webp" width="180" alt="Real captured Qibla state"> |
 
 Capture provenance is in [SOURCES.md](assets/screens/SOURCES.md). Original
-screens are 1080 × 2392; full WebP images retain that aspect ratio. Exact
-detail crop bounds are in [DETAIL-SOURCES.json](assets/screens/DETAIL-SOURCES.json).
+screens are 1080 × 2392; full WebP images retain that aspect ratio.
+Home, Azkar, Tasbeeh, and Qibla show the complete captured screens upright,
+without detached crops or a container cutting through the content.
 The app UI, Quran text, counters, and compass state are not fabricated.
 
 The gallery shows each screen with its own caption. On smaller screens,

diff --git a/assets/screens/SOURCES.md b/assets/screens/SOURCES.md
@@ -12,6 +12,7 @@ Qibla direction and Tasbeeh count are not invented or changed.
 Both website languages use the same Arabic captures so the reciter names
 are recognizable. English secondary labels remain as shown by the app.
 
-Prayer, Tasbeeh, and Qibla details are exact crops of the original PNGs.
-Pixel bounds, source dimensions, and source file hashes are documented in
-DETAIL-SOURCES.json. No controls, text, or decorative UI are recreated.
+The rejected prayer, Tasbeeh, and Qibla detail crops have been removed.
+Every current product screenshot shows the full captured screen. No
+controls, text, or decorative UI are recreated, and no text is cut off
+by a fixed-height screenshot container.
